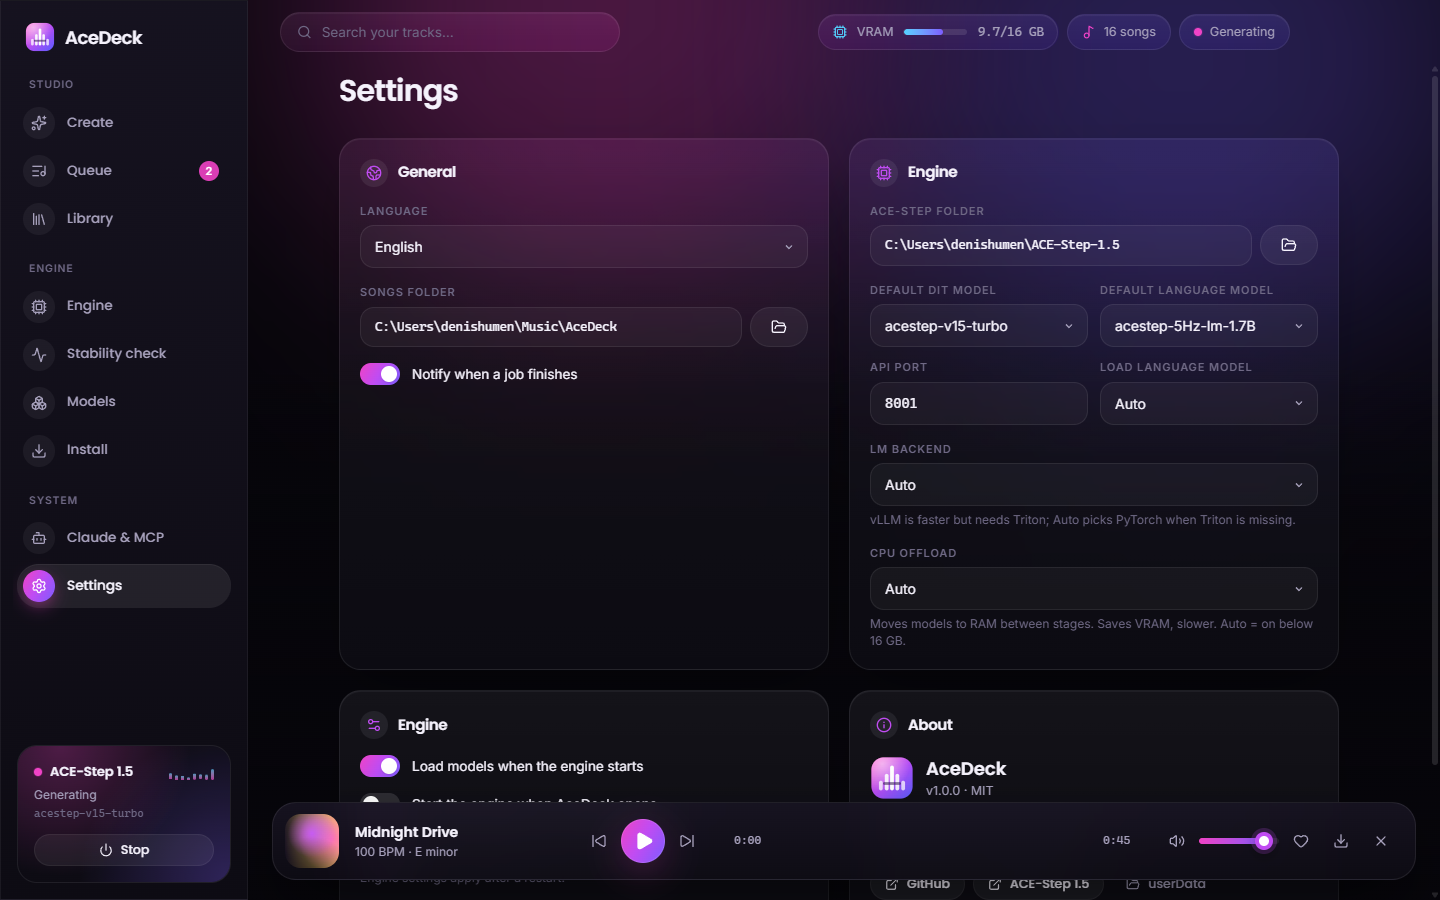
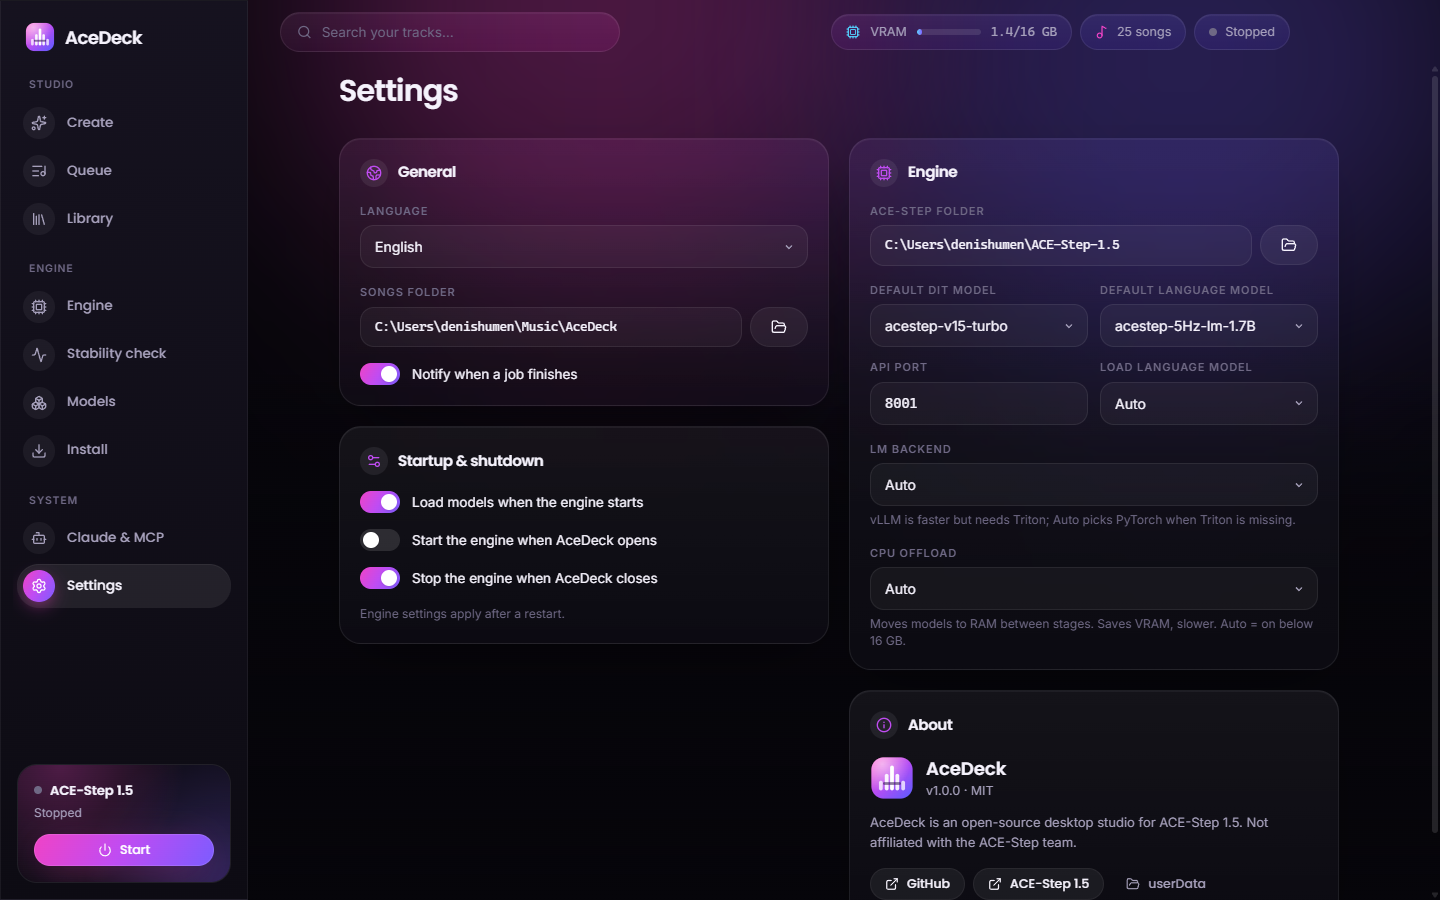
Polish: localized MCP tool list, settings layout, final screenshots
- Claude page: tool descriptions are localized (EN/RU)
- Settings: two independent columns, "Startup & shutdown" card
- Screenshots of the Claude page taken from the installed build

diff --git a/src/renderer/pages/Settings.tsx b/src/renderer/pages/Settings.tsx
@@ -25,103 +25,104 @@ export function SettingsPage() {
   return (
     <div className="mx-auto max-w-[1000px]">
       <PageHeader title={t('settings.title')} />
-      <div className="grid grid-cols-2 gap-5 max-[1280px]:grid-cols-1">
-        <Card>
-          <CardTitle icon={<Globe2 className="size-4" />}>{t('settings.general')}</CardTitle>
-          <div className="space-y-4">
-            <Field label={t('settings.language')}>
-              <Select value={s.language} onChange={(language) => save({ language })} options={[{ value: 'en', label: 'English' }, { value: 'ru', label: 'Русский' }]} />
-            </Field>
-            <Field label={t('settings.outputDir')}>
-              <div className="flex gap-2">
-                <input className="field font-mono !text-[12.5px]" readOnly value={s.outputDir} />
-                <Button
-                  variant="soft"
-                  icon={<FolderOpen className="size-4" />}
-                  onClick={async () => {
-                    const p = await api.pickFolder(s.outputDir)
-                    if (p) void save({ outputDir: p })
-                  }}
-                />
+      <div className="grid grid-cols-2 items-start gap-5 max-[1280px]:grid-cols-1">
+        <div className="space-y-5">
+          <Card>
+            <CardTitle icon={<Globe2 className="size-4" />}>{t('settings.general')}</CardTitle>
+            <div className="space-y-4">
+              <Field label={t('settings.language')}>
+                <Select value={s.language} onChange={(language) => save({ language })} options={[{ value: 'en', label: 'English' }, { value: 'ru', label: 'Русский' }]} />
+              </Field>
+              <Field label={t('settings.outputDir')}>
+                <div className="flex gap-2">
+                  <input className="field font-mono !text-[12.5px]" readOnly value={s.outputDir} />
+                  <Button
+                    variant="soft"
+                    icon={<FolderOpen className="size-4" />}
+                    onClick={async () => {
+                      const p = await api.pickFolder(s.outputDir)
+                      if (p) void save({ outputDir: p })
+                    }}
+                  />
+                </div>
+              </Field>
+              <Toggle checked={s.notifyOnFinish} onChange={(notifyOnFinish) => save({ notifyOnFinish })} label={t('settings.notify')} />
+            </div>
+          </Card>
+          <Card>
+            <CardTitle icon={<Settings2 className="size-4" />}>{t('settings.startup')}</CardTitle>
+            <div className="space-y-4">
+              <Toggle checked={s.preloadModels} onChange={(preloadModels) => save({ preloadModels })} label={t('settings.preload')} />
+              <Toggle checked={s.autoStartEngine} onChange={(autoStartEngine) => save({ autoStartEngine })} label={t('settings.autostart')} />
+              <Toggle checked={s.stopEngineOnExit} onChange={(stopEngineOnExit) => save({ stopEngineOnExit })} label={t('settings.stopOnExit')} />
+              <p className="text-[12px] text-dim">{t('settings.restartHint')}</p>
+            </div>
+          </Card>
+        </div>
+        <div className="space-y-5">
+          <Card>
+            <CardTitle icon={<Cpu className="size-4" />}>{t('settings.engine')}</CardTitle>
+            <div className="space-y-4">
+              <Field label={t('settings.installPath')}>
+                <div className="flex gap-2">
+                  <input className="field font-mono !text-[12.5px]" readOnly value={s.installPath ?? '—'} />
+                  <Button
+                    variant="soft"
+                    icon={<FolderOpen className="size-4" />}
+                    onClick={async () => {
+                      const p = await api.pickFolder(s.installPath ?? undefined)
+                      if (p) await attempt(() => api.engineUseInstall(p))
+                    }}
+                  />
+                </div>
+              </Field>
+              <div className="grid grid-cols-2 gap-3">
+                <Field label={t('settings.defaultDit')}>
+                  <Select value={s.ditModel} onChange={(ditModel) => save({ ditModel })} options={dits} />
+                </Field>
+                <Field label={t('settings.defaultLm')}>
+                  <Select value={s.lmModel} onChange={(lmModel) => save({ lmModel })} options={lms} />
+                </Field>
+                <Field label={t('settings.port')}>
+                  <input className="field font-mono" value={port} onChange={(e) => setPort(e.target.value.replace(/\D/g, ''))} onBlur={() => Number(port) > 1024 && save({ port: Number(port) })} />
+                </Field>
+                <Field label={t('settings.initLlm')}>
+                  <Select value={s.initLlm} onChange={(initLlm) => save({ initLlm })} options={[{ value: 'auto', label: t('common.auto') }, { value: 'true', label: t('common.on') }, { value: 'false', label: t('common.off') }]} />
+                </Field>
               </div>
-            </Field>
-            <Toggle checked={s.notifyOnFinish} onChange={(notifyOnFinish) => save({ notifyOnFinish })} label={t('settings.notify')} />
-          </div>
-        </Card>
-
-        <Card>
-          <CardTitle icon={<Cpu className="size-4" />}>{t('settings.engine')}</CardTitle>
-          <div className="space-y-4">
-            <Field label={t('settings.installPath')}>
-              <div className="flex gap-2">
-                <input className="field font-mono !text-[12.5px]" readOnly value={s.installPath ?? '—'} />
-                <Button
-                  variant="soft"
-                  icon={<FolderOpen className="size-4" />}
-                  onClick={async () => {
-                    const p = await api.pickFolder(s.installPath ?? undefined)
-                    if (p) await attempt(() => api.engineUseInstall(p))
-                  }}
-                />
-              </div>
-            </Field>
-            <div className="grid grid-cols-2 gap-3">
-              <Field label={t('settings.defaultDit')}>
-                <Select value={s.ditModel} onChange={(ditModel) => save({ ditModel })} options={dits} />
+              <Field label={t('settings.lmBackend')} hint={t('settings.lmBackend.hint')}>
+                <Select value={s.lmBackend} onChange={(lmBackend) => save({ lmBackend })} options={[{ value: 'auto', label: t('common.auto') }, { value: 'pt', label: 'PyTorch' }, { value: 'vllm', label: 'vLLM (nano-vllm)' }]} />
               </Field>
-              <Field label={t('settings.defaultLm')}>
-                <Select value={s.lmModel} onChange={(lmModel) => save({ lmModel })} options={lms} />
-              </Field>
-              <Field label={t('settings.port')}>
-                <input className="field font-mono" value={port} onChange={(e) => setPort(e.target.value.replace(/\D/g, ''))} onBlur={() => Number(port) > 1024 && save({ port: Number(port) })} />
-              </Field>
-              <Field label={t('settings.initLlm')}>
-                <Select value={s.initLlm} onChange={(initLlm) => save({ initLlm })} options={[{ value: 'auto', label: t('common.auto') }, { value: 'true', label: t('common.on') }, { value: 'false', label: t('common.off') }]} />
+              <Field label={t('settings.offload')} hint={t('settings.offload.hint')}>
+                <Select value={s.offload} onChange={(offload) => save({ offload })} options={[{ value: 'auto', label: t('common.auto') }, { value: 'on', label: t('common.on') }, { value: 'off', label: t('common.off') }]} />
               </Field>
             </div>
-            <Field label={t('settings.lmBackend')} hint={t('settings.lmBackend.hint')}>
-              <Select value={s.lmBackend} onChange={(lmBackend) => save({ lmBackend })} options={[{ value: 'auto', label: t('common.auto') }, { value: 'pt', label: 'PyTorch' }, { value: 'vllm', label: 'vLLM (nano-vllm)' }]} />
-            </Field>
-            <Field label={t('settings.offload')} hint={t('settings.offload.hint')}>
-              <Select value={s.offload} onChange={(offload) => save({ offload })} options={[{ value: 'auto', label: t('common.auto') }, { value: 'on', label: t('common.on') }, { value: 'off', label: t('common.off') }]} />
-            </Field>
-          </div>
-        </Card>
-
-        <Card>
-          <CardTitle icon={<Settings2 className="size-4" />}>{t('nav.engine')}</CardTitle>
-          <div className="space-y-4">
-            <Toggle checked={s.preloadModels} onChange={(preloadModels) => save({ preloadModels })} label={t('settings.preload')} />
-            <Toggle checked={s.autoStartEngine} onChange={(autoStartEngine) => save({ autoStartEngine })} label={t('settings.autostart')} />
-            <Toggle checked={s.stopEngineOnExit} onChange={(stopEngineOnExit) => save({ stopEngineOnExit })} label={t('settings.stopOnExit')} />
-            <p className="text-[12px] text-dim">{t('settings.restartHint')}</p>
-          </div>
-        </Card>
-
-        <Card>
-          <CardTitle icon={<Info className="size-4" />}>{t('settings.about')}</CardTitle>
-          <div className="flex items-center gap-3">
-            <Logo size={44} />
-            <div>
-              <div className="font-display text-[18px] font-semibold">AceDeck</div>
-              <div className="text-[12.5px] text-muted">v{info?.version ?? '—'} · MIT</div>
+          </Card>
+          <Card>
+            <CardTitle icon={<Info className="size-4" />}>{t('settings.about')}</CardTitle>
+            <div className="flex items-center gap-3">
+              <Logo size={44} />
+              <div>
+                <div className="font-display text-[18px] font-semibold">AceDeck</div>
+                <div className="text-[12.5px] text-muted">v{info?.version ?? '—'} · MIT</div>
+              </div>
             </div>
-          </div>
-          <p className="mt-3 text-[13px] text-muted">{t('settings.about.text')}</p>
-          <div className="mt-4 flex flex-wrap gap-2">
-            <Button size="sm" variant="soft" icon={<ExternalLink className="size-3.5" />} onClick={() => api.openExternal(PROJECT_URL)}>
-              {t('settings.github')}
-            </Button>
-            <Button size="sm" variant="soft" icon={<ExternalLink className="size-3.5" />} onClick={() => api.openExternal('https://github.com/ace-step/ACE-Step-1.5')}>
-              {t('settings.acestep')}
-            </Button>
-            {info && (
-              <Button size="sm" variant="ghost" icon={<FolderOpen className="size-3.5" />} onClick={() => api.openPath(info.userData)}>
-                userData
+            <p className="mt-3 text-[13px] text-muted">{t('settings.about.text')}</p>
+            <div className="mt-4 flex flex-wrap gap-2">
+              <Button size="sm" variant="soft" icon={<ExternalLink className="size-3.5" />} onClick={() => api.openExternal(PROJECT_URL)}>
+                {t('settings.github')}
               </Button>
-            )}
-          </div>
-        </Card>
+              <Button size="sm" variant="soft" icon={<ExternalLink className="size-3.5" />} onClick={() => api.openExternal('https://github.com/ace-step/ACE-Step-1.5')}>
+                {t('settings.acestep')}
+              </Button>
+              {info && (
+                <Button size="sm" variant="ghost" icon={<FolderOpen className="size-3.5" />} onClick={() => api.openPath(info.userData)}>
+                  userData
+                </Button>
+              )}
+            </div>
+          </Card>
+        </div>
       </div>
     </div>
   )

diff --git a/src/renderer/i18n/ru.ts b/src/renderer/i18n/ru.ts
@@ -327,6 +327,7 @@ export const ru: Dict = {
   'settings.initLlm': 'Загружать языковую модель',
   'settings.offload': 'Выгрузка в ОЗУ',
   'settings.offload.hint': 'Переносит модели в ОЗУ между этапами. Экономит VRAM, но медленнее. «Авто» — включено при VRAM < 16 ГБ.',
+  'settings.startup': 'Запуск и завершение',
   'settings.preload': 'Загружать модели при запуске нейросети',
   'settings.autostart': 'Запускать нейросеть при открытии AceDeck',
   'settings.stopOnExit': 'Останавливать нейросеть при закрытии AceDeck',
@@ -354,6 +355,15 @@ export const ru: Dict = {
   'claude.code.desc': 'Выполните один раз в терминале:',
   'claude.json': 'Ручная настройка (любой MCP-клиент)',
   'claude.tools': 'Доступные инструменты',
+  'claude.tool.status': 'Сводка: нейросеть, GPU, очередь и библиотека',
+  'claude.tool.engine': 'Запуск / остановка / перезапуск ACE-Step',
+  'claude.tool.generate': 'Генерация по описанию или стилю и тексту, N песен',
+  'claude.tool.transform': 'Кавер / ремикс или перерисовка готового файла',
+  'claude.tool.draft': 'LM пишет описание, текст, BPM и тональность',
+  'claude.tool.queue': 'Управление очередью',
+  'claude.tool.tracks': 'Библиотека песен с путями к файлам',
+  'claude.tool.diag': 'Быстрая проверка или полный стресс-тест',
+  'claude.tool.logs': 'Хвост журнала нейросети',
   'claude.examples': 'Попросите Claude',
   'claude.example.1': 'Сгенерируй 5 спокойных lo-fi инструменталов по 2 минуты и покажи файлы.',
   'claude.example.2': 'Напиши русскую поп-песню про лето с женским вокалом и сделай 3 версии.',

diff --git a/src/renderer/pages/Claude.tsx b/src/renderer/pages/Claude.tsx
@@ -5,16 +5,16 @@ import { api, type McpConfig } from '../lib/api'
 import { useT } from '../i18n'
 import { Badge, Button, Card, CardTitle, CopyButton, PageHeader, StatusDot, Toggle } from '../components/ui'
 
-const TOOLS = [
-  ['acedeck_status', 'Engine, GPU, queue & library summary'],
-  ['engine_control', 'Start / stop / restart ACE-Step'],
-  ['generate_music', 'Text-to-music: description or caption + lyrics, N songs'],
-  ['transform_audio', 'Cover / remix or repaint an existing file'],
-  ['draft_song', 'LM writes caption, lyrics, BPM & key'],
-  ['list_queue · get_job · job_control · queue_control', 'Queue management'],
-  ['list_tracks', 'Browse generated songs with file paths'],
-  ['run_diagnostics', 'Quick check or full stress test'],
-  ['engine_logs', 'Tail of the engine log'],
+const TOOLS: [string, string][] = [
+  ['acedeck_status', 'claude.tool.status'],
+  ['engine_control', 'claude.tool.engine'],
+  ['generate_music', 'claude.tool.generate'],
+  ['transform_audio', 'claude.tool.transform'],
+  ['draft_song', 'claude.tool.draft'],
+  ['list_queue · get_job · job_control · queue_control', 'claude.tool.queue'],
+  ['list_tracks', 'claude.tool.tracks'],
+  ['run_diagnostics', 'claude.tool.diag'],
+  ['engine_logs', 'claude.tool.logs'],
 ]
 
 export function ClaudePage() {
@@ -89,7 +89,7 @@ export function ClaudePage() {
               {TOOLS.map(([name, desc]) => (
                 <div key={name} className="flex gap-3 border-b border-white/[0.05] pb-2 last:border-0">
                   <code className="shrink-0 font-mono text-[12px] text-orchid">{name}</code>
-                  <span className="text-[12.5px] text-muted">{desc}</span>
+                  <span className="text-[12.5px] text-muted">{t(desc)}</span>
                 </div>
               ))}
             </div>

diff --git a/src/renderer/i18n/en.ts b/src/renderer/i18n/en.ts
@@ -335,6 +335,7 @@ export const en = {
   'settings.initLlm': 'Load language model',
   'settings.offload': 'CPU offload',
   'settings.offload.hint': 'Moves models to RAM between stages. Saves VRAM, slower. Auto = on below 16 GB.',
+  'settings.startup': 'Startup & shutdown',
   'settings.preload': 'Load models when the engine starts',
   'settings.autostart': 'Start the engine when AceDeck opens',
   'settings.stopOnExit': 'Stop the engine when AceDeck closes',
@@ -363,6 +364,15 @@ export const en = {
   'claude.code.desc': 'Run this once in a terminal:',
   'claude.json': 'Manual config (any MCP client)',
   'claude.tools': 'Available tools',
+  'claude.tool.status': 'Engine, GPU, queue & library summary',
+  'claude.tool.engine': 'Start / stop / restart ACE-Step',
+  'claude.tool.generate': 'Text-to-music: description or caption + lyrics, N songs',
+  'claude.tool.transform': 'Cover / remix or repaint an existing file',
+  'claude.tool.draft': 'LM writes caption, lyrics, BPM & key',
+  'claude.tool.queue': 'Queue management',
+  'claude.tool.tracks': 'Browse generated songs with file paths',
+  'claude.tool.diag': 'Quick check or full stress test',
+  'claude.tool.logs': 'Tail of the engine log',
   'claude.examples': 'Try asking Claude',
   'claude.example.1': 'Generate 5 chill lo-fi instrumentals, 2 minutes each, and list the files.',
   'claude.example.2': 'Write a Russian pop song about summer with a female vocal and render 3 versions.',
